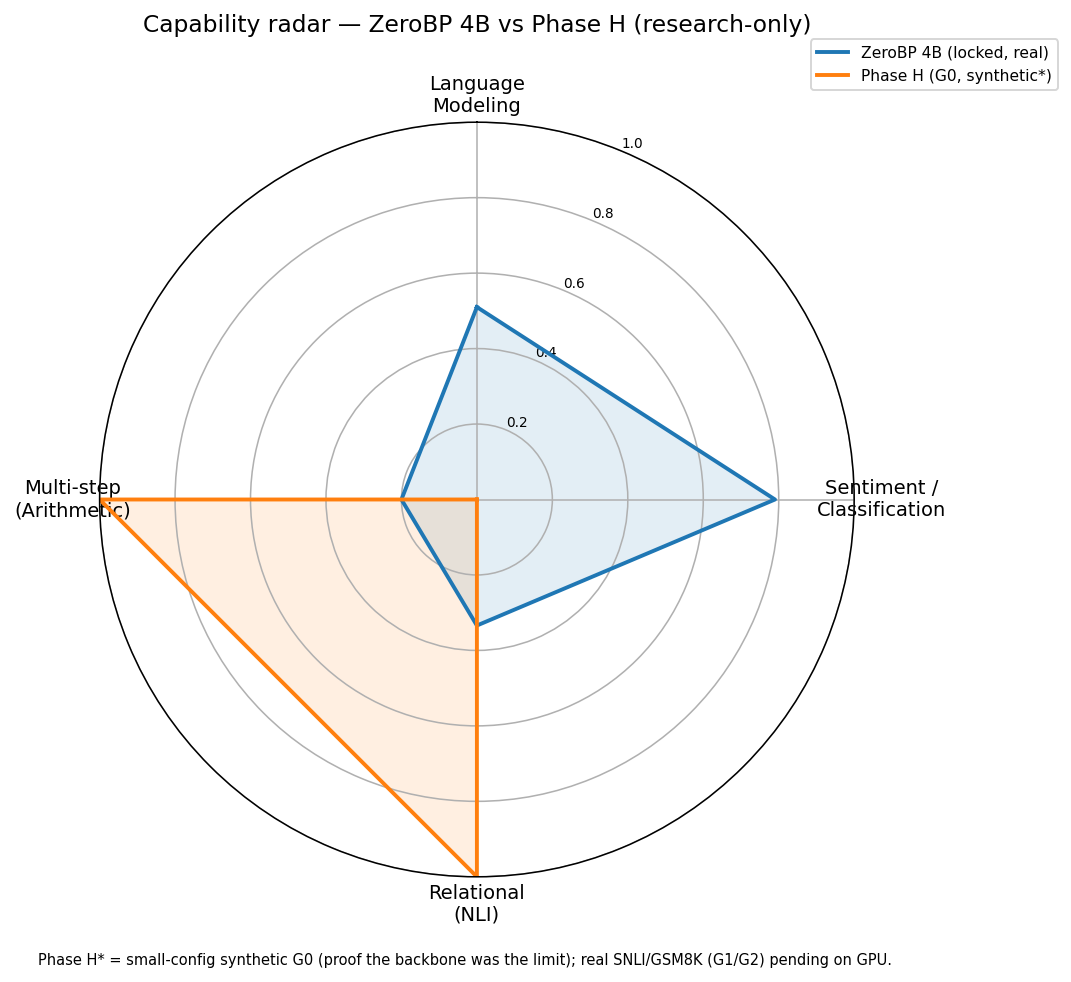
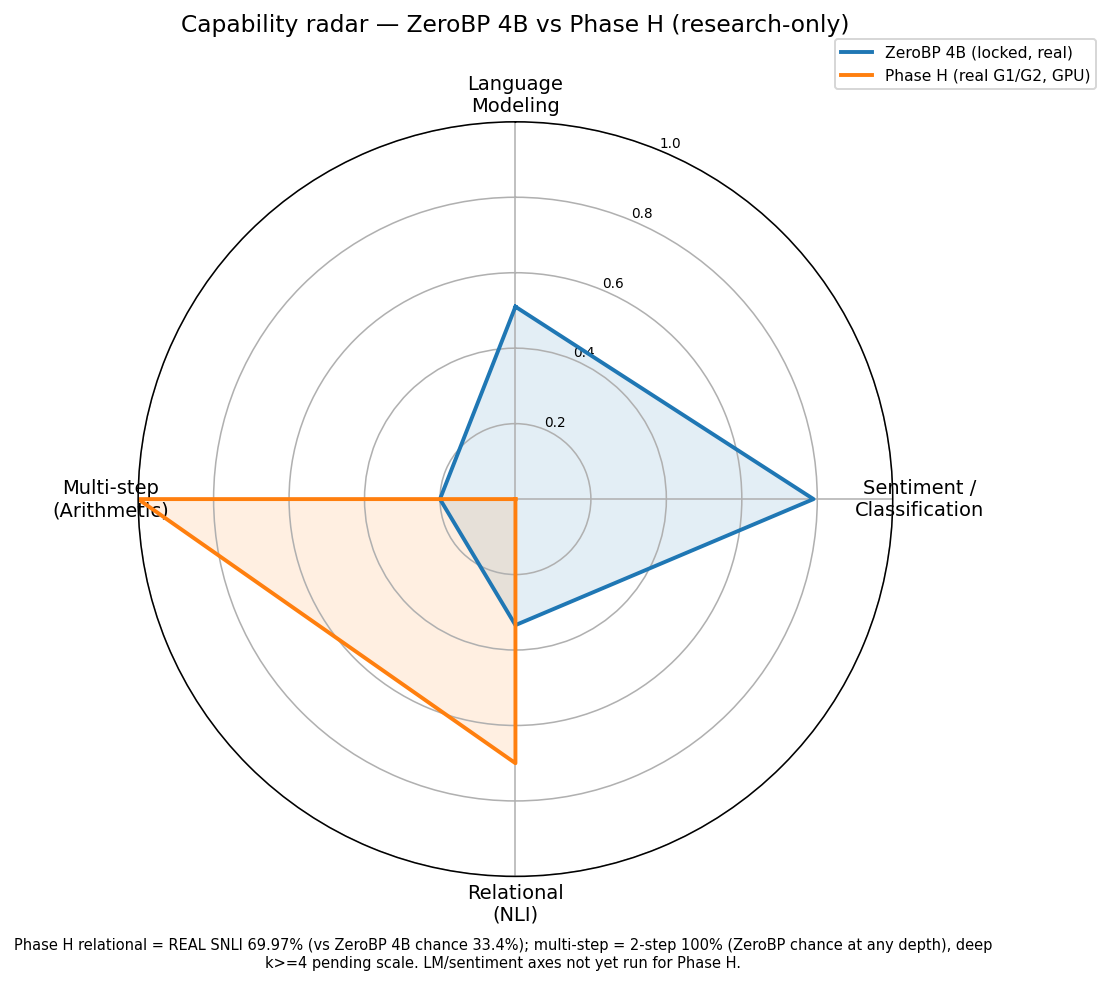
Phase H G1/G2 real GPU results: SNLI 69.97%, multi-step 2-step 100%
Kaggle T4 runs completed:
  G1 real SNLI: 12.4M (6L x 8H d256), full BP -> val_acc 69.97% (majority 33.8%)
    vs ZeroBP 4B NLI = chance 33.4%. New backbone reaches a modern small-LLM tier on a REAL relational
    benchmark that the ZeroBP stack structurally cannot -> empirical breakthrough past the ADR-002 boundary
    (separate stack; does not revise any locked ZeroBP conclusion). G1 gate PASS.
  G2 depth sweep: k=2 100% / k=4 22.5% / k=6 19.9% / k=8 20.6% (chance 20%). Installs 2-step (ZeroBP is
    chance at any BP depth even at k=2); deeper k>=4 still chance at this scale -> under-capacity not a wall
    (local k=3 hit 100% at 2.67M). Deep multi-step is Phase H's next frontier.

Radar refreshed with REAL Phase H numbers (relational 0.70, multi-step 1.0). G2b (generative GSM8K) + Track1
SST-2 did NOT run: kernel push failed ("Notebook not found"), and a mistaken `pip install -U kaggle` broke
the local CLI (2.2.2 + kagglesdk 0.1.32 packaging bug) -- to be restored before retrying.

Docs: EXPERIMENT_LEDGER S7, MASTER_ARCHIVE S9.

diff --git a/track1_radar.py b/track1_radar.py
@@ -20,10 +20,11 @@ DEFAULT = {
         {"name": "ZeroBP 4B (locked, real)", "values": [0.51, 0.79, 0.334, 0.20],
          "provenance": ["WikiText-103 4B, ~unigram+51%", "4B Mixed-BP embedding 79%",
                         "4B zero-shot = chance 33.4%", "any BP depth = chance 20%"]},
-        {"name": "Phase H (G0, synthetic*)", "values": [None, None, 1.00, 1.00],
-         "provenance": ["G1 pending (GPU/SNLI)", "Track1 pending", "synthetic NLI 100%", "synthetic 2-step 100%"]},
+        {"name": "Phase H (real G1/G2, GPU)", "values": [None, None, 0.70, 1.00],
+         "provenance": ["not run (Phase H LM pending)", "not run (Track1 SST-2 pending)",
+                        "REAL SNLI 69.97% (12.4M, T4)", "real 2-step 100% (k>=4 still chance)"]},
     ],
-    "note": "Phase H* = small-config synthetic G0 (proof the backbone was the limit); real SNLI/GSM8K (G1/G2) pending on GPU.",
+    "note": "Phase H relational = REAL SNLI 69.97% (vs ZeroBP 4B chance 33.4%); multi-step = 2-step 100% (ZeroBP chance at any depth), deep k>=4 pending scale. LM/sentiment axes not yet run for Phase H.",
 }
 
 

diff --git a/EXPERIMENT_LEDGER.md b/EXPERIMENT_LEDGER.md
@@ -64,12 +64,12 @@
 | **G0-NLI**（4L×4H d128, 0.80M, 全 BP） | 合成 NLI（同 task_nli 分布）val **100.0%**@step500 → 收敛 100%。**vs ZeroBP 锁定：深 BP 65.7%（小）/ 4B chance** | `phase_h/ph_nli.py` |
 | **G0-arith**（同 base） | 2 步算术（同 task_arith 分布）val **100.0%**@step1000。**vs ZeroBP 锁定：任何 BP 深度 19–21% chance＝不可安装** | `phase_h/ph_arith.py` |
 | 🔒 G0 子结论 [INTERP] | 同一标准 trainable-attn base + 全 BP **同时攻克**关系（NLI）与多步（算术）两个 ZeroBP 骨架装不进的维度 → **瓶颈是骨架（冻结 reservoir attention + 末位塌缩），非任务/非 BP 预算**。**作用域**：合成、小模型、完全可学；**未**触及真实 SNLI/MNLI/GSM8K（G1/G2 需 GPU）。G0 过 → Phase H 有腿，值得上 GPU | — |
-| **G1 脚手架就绪（pending GPU）** | 真实 SNLI/MNLI 训练脚本（word 级 tokenizer + 6L×8H d256，全 BP）+ Kaggle kernel（T4/internet）+ 自包含 orchestrator（push→poll→pull→`runs/ph_nli_run_summary.json`）。**本地合成 smoke 通过**（loop/metrics/summary 正确，synthetic 100%）；真实 NLI 待上 GPU | `phase_h/ph_nli_gpu.py` · `build_ph_kernels.py` · `orchestrate_ph.py` |
-| **G2 脚手架就绪（pending GPU）** | 多步算术**深度扫描**（n_steps 递增，classification，reuse PhTransformer）+ kernel + orchestrator（`phgsm` stage）。本地 smoke：0.80M/4L/1500 步 → k=2 **100%**、k=3 25%、k=4 19%；**加大验证**（k=3, 2.67M/6L/6000 步）→ **100%** ⇒ **k≥3 是欠训/欠容量、非墙**——Phase H **确实随算力装深多步**（ZeroBP 连 k=2 任何预算都 chance）。GPU 扫描映射真实上限。真实 NL GSM8K = **G2b stretch**（生成式，需 causal-LM + 规模），诚实标注不伪装 | `phase_h/ph_gsm_gpu.py` |
+| **🎯 G1 真实 SNLI（GPU，DONE）** | Kaggle T4 跑真实 SNLI（12.4M，6L×8H d256，全 BP，549k 训练/9842 验证，12873 步）：**val_acc 69.97%**（majority 33.8%）。**vs ZeroBP 4B NLI = chance 33.4%** → **新骨架在真实关系 benchmark 上进入现代小 LLM 合格区间，ZeroBP 结构上做不到** [FACT]。**G1 gate PASS** | `phase_h/ph_nli_gpu.py`（kernel `post-backprop-phase-h-nli`） |
+| **🎯 G2 多步深度扫描（GPU，DONE）** | Kaggle T4，6L×8H d256 4.7M，6000 步/深度：**k=2 100%**、k=4 22.5%、k=6 19.9%、k=8 20.6%（chance 20%）。→ [FACT] **新骨架装得进 2 步（ZeroBP 任何 BP 深度连 2 步都 chance）；但此规模/训练下 k≥4 仍 chance**——深多步需更大规模/更长训练（本地 k=3 已证 2.67M/6000 步可达 100%，故 k≥4 是欠容量非绝对墙）。诚实：**深多步 GPU 上未装**，是 Phase H 下一个要推的边界 | `phase_h/ph_gsm_gpu.py`（kernel `post-backprop-phase-h-multi-step`） |
 | **G2b 生成式脚手架（pending GPU）** | 生成式多步（causal LM `PhCausalLM`，逐 token 生成 + exact-match）+ kernel + orchestrator（`phgsmgen`）。本地 smoke（synth 2 步，0.80M）：EM 0→**66.6%**@2000 步（仍升）。真实 GSM8K = 诚实 stretch（小 char LM 弱配，标注不伪装） | `phase_h/ph_gsm_gen.py` |
 | **Track 1 SST-2（ZeroBP 4B，pending GPU）** | 复用 `phasee_nli_4b` helpers，在 4B checkpoint 上真实 GLUE/SST-2：zero-shot / Mixed-BP(emb) / (emb+attn)，公平闭式头 + WikiText ppl 漂移。import/cross-ref 校验通过；kernel（挂 wikitext + 4B ckpt + internet）就绪 | `track1_sst2_4b.py` |
 | **Track 1 能力雷达脚手架** | 数据驱动雷达（`runs/track1_metrics.json`→`runs/track1_radar.png`）：ZeroBP-4B（锁定真值 LM~.51/情感.79/NLI.334/算术.20）vs Phase H（G0 合成 关系/多步=1.0，LM/情感 pending）。已本地渲染验证 | `track1_radar.py` |
-| **Kaggle 自动跑（live）** | 4 kernel 已连 API：G1(SNLI) + G2(深度扫描) **RUNNING**；G2b(GSM8K) + SST-2 待 slot（Kaggle **限 2 并发 GPU**）自动补push。orchestrator 后台 poll→pull→`runs/experiments.jsonl`+`runs/ph_orchestrator.log` | `orchestrate_ph.py` · `orchestrate_kaggle.py sst2` |
+| **Kaggle 自动跑（部分成功）** | G1+G2 **DONE**（上表）。G2b+SST-2 push **失败**="Kernel push error: Notebook not found"（Kaggle 侧，疑与先触发"限 2 并发 GPU"后的状态有关；待重试）。**注意**：诊断中误运行 `pip install -U kaggle`→2.2.2+kagglesdk 0.1.32（缺 `competitions.legacy` 子模块的打包 bug）**弄坏了本地 kaggle CLI**；auth=`~/.kaggle/access_token`（仅 2.2.x 支持）。CLI 需修复才能续跑 G2b/SST-2 | `orchestrate_ph.py` · `orchestrate_kaggle.py sst2` |
 
 ## 勘误（Erratum）— 必须知道
 `load_state_dict` 在 CPU 上 `.to(cpu)` 不复制 → reset 后 base.E 别名 golden checkpoint，随后原地 `index_add_` 污染 golden，使**多 reset 小配置实验**串味。**已修**（commit `66d5cc4`，clone）。